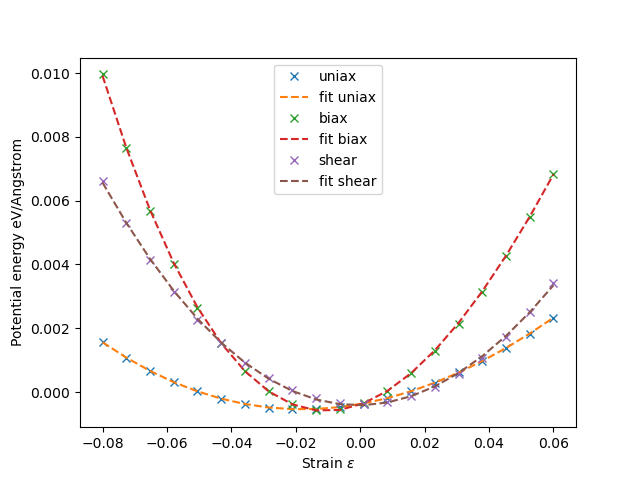
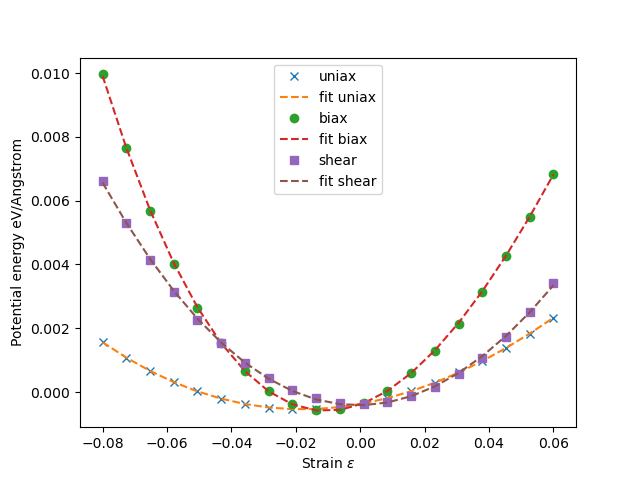
cosmetics

diff --git a/elastic_constants.py b/elastic_constants.py
@@ -106,7 +106,7 @@ if __name__ == '__main__':
     elastic_const_dict = {} #the calculated elastic constants go here
     min_eps_dict = {} #here we save the root of the first derivative -> the epsilon at which the energy is minimal 
 
-    for type in deform_types:
+    for type,mark in zip(deform_types,['x','o','s']):
         configs = read(f'{directory}{type}.traj@0:', 'r')
         energies = [config.get_potential_energy() for config in configs]
         #[config.get_volume() for config in configs]
@@ -114,7 +114,7 @@ if __name__ == '__main__':
         for energy in energies:
             energy_per_volumes.append(energy/volume)
 
-        ax1.plot(epsilons, energy_per_volumes, 'x', label=f'{type}')
+        ax1.plot(epsilons, energy_per_volumes, mark , label=f'{type}')
 
         popt, pcov = curve_fit(fit_func, epsilons, energy_per_volumes) 
 
@@ -136,6 +136,8 @@ if __name__ == '__main__':
     fig1.savefig(f'{directory}/strain_epot')
     fig2.savefig(f'{directory}/strain_epot_derivatives')
     #now divide these by lattice const**3
+    with open(f'{directory}elastic_constants.json', 'w') as fp:
+        json.dump(elastic_const_dict, fp)
     print(min_eps_dict)
     print(elastic_const_dict)
 
